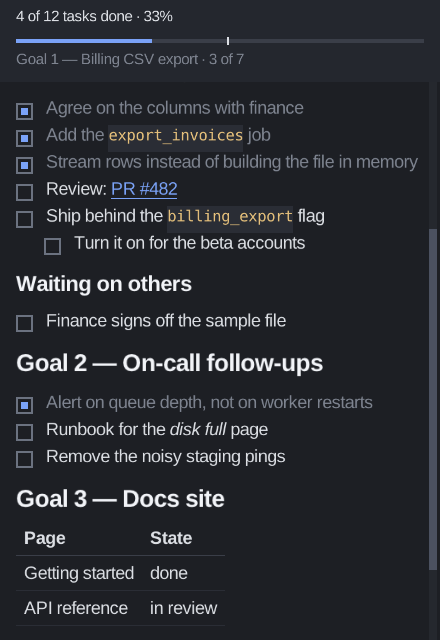
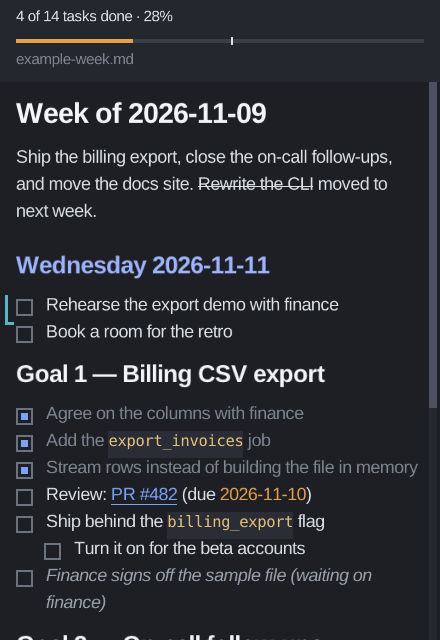
docs: a new screenshot with today's heading, change marks and overdue dates (#10)
## What changed

A new README screenshot that shows what Shipinel does now: today's
heading, a change mark, an overdue date and a waiting task, besides the
week's pace.

## Review notes

- Start reviewing at: `docs/screenshot.png`, then
`docs/example-week.md`.
- The example plan (made up, as before) gets a `Wednesday 2026-11-11`
heading, a past due date and a task `(waiting on finance)`; two headings
got shorter so the waiting task fits in the window.
- Taken in Xvfb with the clock shifted to Wednesday 2026-11-11 15:30, a
second after one line was edited outside, so the change mark shows.

## How to test and screenshots

1. Look at the README on this branch.
2. `shipinel docs/example-week.md` on Wednesday 2026-11-11 shows the
same; on other days today's heading and the pace differ.

## Checklist

- [x] `bundle exec rake check` (or `nix flake check`) passes with no
offenses
- [x] New or changed behaviour has unit tests (docs only)
- [x] A visible change was tried in a window (the screenshot)
- [x] README and docs/ say what changed for users
- [x] It stays within [What Shipinel is
not](https://github.com/fabiosammy/shipinel#what-shipinel-is-not)

🤖 Generated with [Claude Code](https://claude.com/claude-code)

diff --git a/README.md b/README.md
@@ -11,7 +11,7 @@
 </p>
 
 <p align="center">
-  <img src="docs/screenshot.png" width="440" alt="Shipinel showing an example week: 4 of 12 tasks done, a tick on the bar where Wednesday afternoon is, and the tasks of Goal 1" />
+  <img src="docs/screenshot.png" width="440" alt="Shipinel on a Wednesday afternoon of an example week: 4 of 14 tasks done with an amber bar (behind the week's pace tick), today's heading in blue, a mark beside a line just edited elsewhere, an overdue date in amber, done tasks dimmed and a task waiting on someone in italics" />
 </p>
 
 ## Features
@@ -382,7 +382,8 @@ raygui and GLFW call, with signatures from the headers) and
 [docs/tray-notes.md](docs/tray-notes.md) (the tray's D-Bus interfaces).
 
 The screenshot above is of [docs/example-week.md](docs/example-week.md), a
-made-up plan.
+made-up plan, on Wednesday 2026-11-11 at 15:30, a second after one of its
+lines was edited in another editor.
 
 ## License
 

diff --git a/docs/example-week.md b/docs/example-week.md
@@ -1,20 +1,22 @@
-# Week of 2026-11-09 → 2026-11-13
+# Week of 2026-11-09
 
 Ship the billing export, close the on-call follow-ups, and move the docs
 site. ~~Rewrite the CLI~~ moved to next week.
+
+## Wednesday 2026-11-11
+
+- [ ] Rehearse the export demo
+- [ ] Book a room for the retro
 
 ## Goal 1 — Billing CSV export
 
 - [x] Agree on the columns with finance
 - [x] Add the `export_invoices` job
 - [x] Stream rows instead of building the file in memory
-- [ ] Review: [PR #482](https://example.com/pr/482)
+- [ ] Review: [PR #482](https://example.com/pr/482) (due 2026-11-10)
 - [ ] Ship behind the `billing_export` flag
   - [ ] Turn it on for the beta accounts
-
-### Waiting on others
-
-- [ ] Finance signs off the sample file
+- [ ] Finance signs off the sample file (waiting on finance)
 
 ## Goal 2 — On-call follow-ups
 
